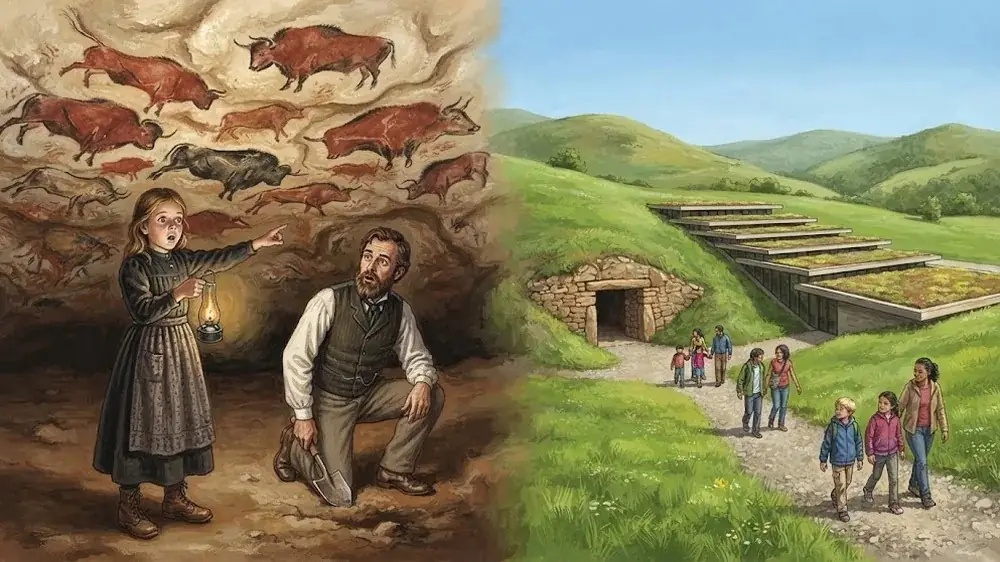
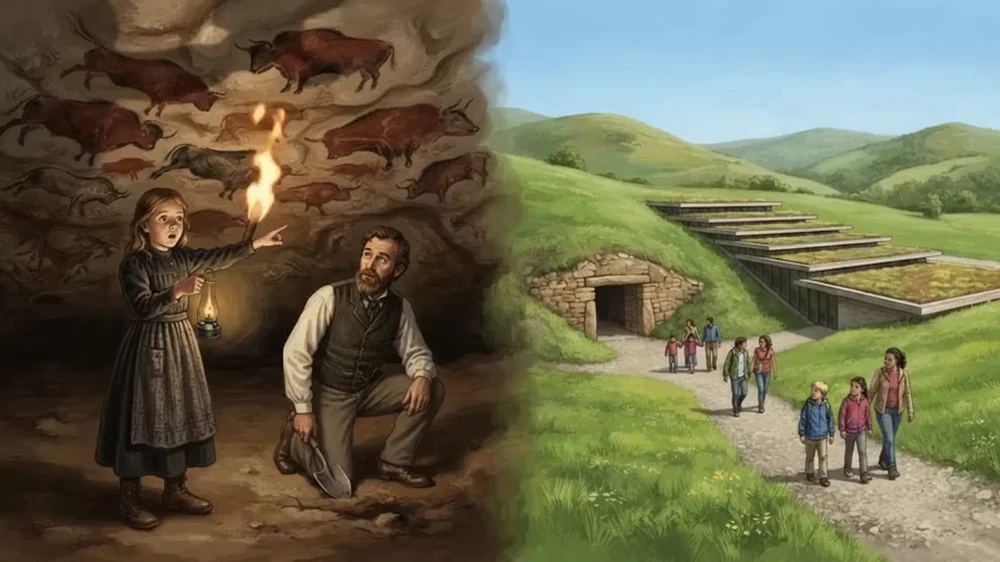
fix: láminas iguales a su vídeo de Gemini cuando Gemini redibujó
- herramientas/igualar_lamina.py: si el primer fotograma no coincide con la
  lámina, la lámina pasa a ser ese fotograma
- aplicado a des-altamira, neolitico-1, des-caral, ant1-4, ant2-10, ant4-0
- foro/animaciones-pendientes.md: regla para los próximos vídeos
- sw.js: hk-v286

Claude-Session: https://claude.ai/code/session_01PD9K1kjfaCs4fqXJTcWSvd

diff --git a/sw.js b/sw.js
@@ -1,5 +1,5 @@
 // HistoKHB — service worker: la app abre sin conexión con lo ya visto.
-const V='hk-v285';
+const V='hk-v286';
 const SHELL=['./','index.html','manifest.json','datos/indice.json','img/icono-192.png'];
 self.addEventListener('install',e=>{e.waitUntil(caches.open(V).then(c=>c.addAll(SHELL)).then(()=>self.skipWaiting()));});
 self.addEventListener('activate',e=>{e.waitUntil(caches.keys().then(ks=>Promise.all(ks.filter(k=>k!==V).map(k=>caches.delete(k)))).then(()=>self.clients.claim()));});

diff --git a/herramientas/igualar_lamina.py b/herramientas/igualar_lamina.py
@@ -1,0 +1,20 @@
+"""Si un vídeo de Gemini no coincide con su lámina (Gemini redibujó), la lámina pasa a ser
+el primer fotograma del vídeo, para que imagen fija y vídeo encajen.
+Uso: python3 herramientas/igualar_lamina.py [códigos...]  (sin códigos: todos los viva_tipo=gemini)"""
+import json, subprocess, sys, os, tempfile
+from PIL import Image, ImageChops, ImageStat
+UMBRAL = 15
+A = json.load(open('datos/audio.json'))['fichas']
+cods = sys.argv[1:] or [k for k, v in A.items() if v.get('viva_tipo') == 'gemini']
+for k in cods:
+    vid, lam = f'img/vivas/{k}.mp4', f'img/laminas/{k}.webp'
+    if not (os.path.exists(vid) and os.path.exists(lam)): print(k, 'falta vídeo o lámina'); continue
+    png = os.path.join(tempfile.gettempdir(), f'{k}-f0.png')
+    subprocess.run(['ffmpeg', '-v', 'quiet', '-y', '-i', vid, '-frames:v', '1', png], check=True)
+    F = Image.open(png).convert('RGB'); L = Image.open(lam).convert('RGB')
+    d = ImageStat.Stat(ImageChops.difference(L.convert('L').resize((160, 90)), F.convert('L').resize((160, 90)))).mean[0]
+    if d <= UMBRAL: print(f'{k}: coincide ({d:.0f})'); continue
+    w, h = F.size; nh = round(w * 9 / 16)
+    if nh <= h: F = F.crop((0, (h - nh) // 2, w, (h - nh) // 2 + nh))
+    F.resize((1000, 562), Image.LANCZOS).save(lam, 'WEBP', quality=88)
+    print(f'{k}: Gemini redibujó ({d:.0f}) -> lámina sustituida por el primer fotograma')

diff --git a/foro/animaciones-pendientes.md b/foro/animaciones-pendientes.md
@@ -12,7 +12,7 @@ NO describir el dibujo (si se describe, Gemini genera una ilustración nueva). S
 Animate this illustration, not another one, as an 8-second video. Keep all elements exactly as they are — do not add, remove or change anything. Animate naturally: <qué se mueve>. <Edificios/objetos fijos> remain completely still. No camera movement, no zoom.
 ```
 
-Al recibir un vídeo: comparar su primer fotograma con la lámina; si Gemini ha cambiado el dibujo, NO se sube.
+Al recibir un vídeo: se sube y se pasa `python3 herramientas/igualar_lamina.py <código>`. Si Gemini redibujó, la lámina pasa a ser el primer fotograma del vídeo (así imagen fija y vídeo coinciden). Carlos no tiene que revisar nada.
 
 ## Prioridad
 
